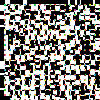
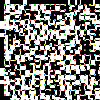
Updated canada.pymy1.png .

diff --git a/canada.py b/canada.py
@@ -39,10 +39,10 @@ moverPieza(outp,7,17,0,13)
 moverPieza(outp,8,8,0,12)
 moverPieza(outp,10,1,0,5)
 moverPieza(outp,11,11,0,8)
-moverPieza(outp,12,16,0,16)
+moverPieza(outp,12,16,0,2)
 moverPieza(outp,13,6,0,11)
 moverPieza(outp,15,5,0,1)
-moverPieza(outp,16,5,0,2)
+moverPieza(outp,16,5,0,16)
 moverPieza(outp,17,4,0,15)
 moverPieza(outp,17,12,0,18)
 moverPieza(outp,18,10,0,6)
